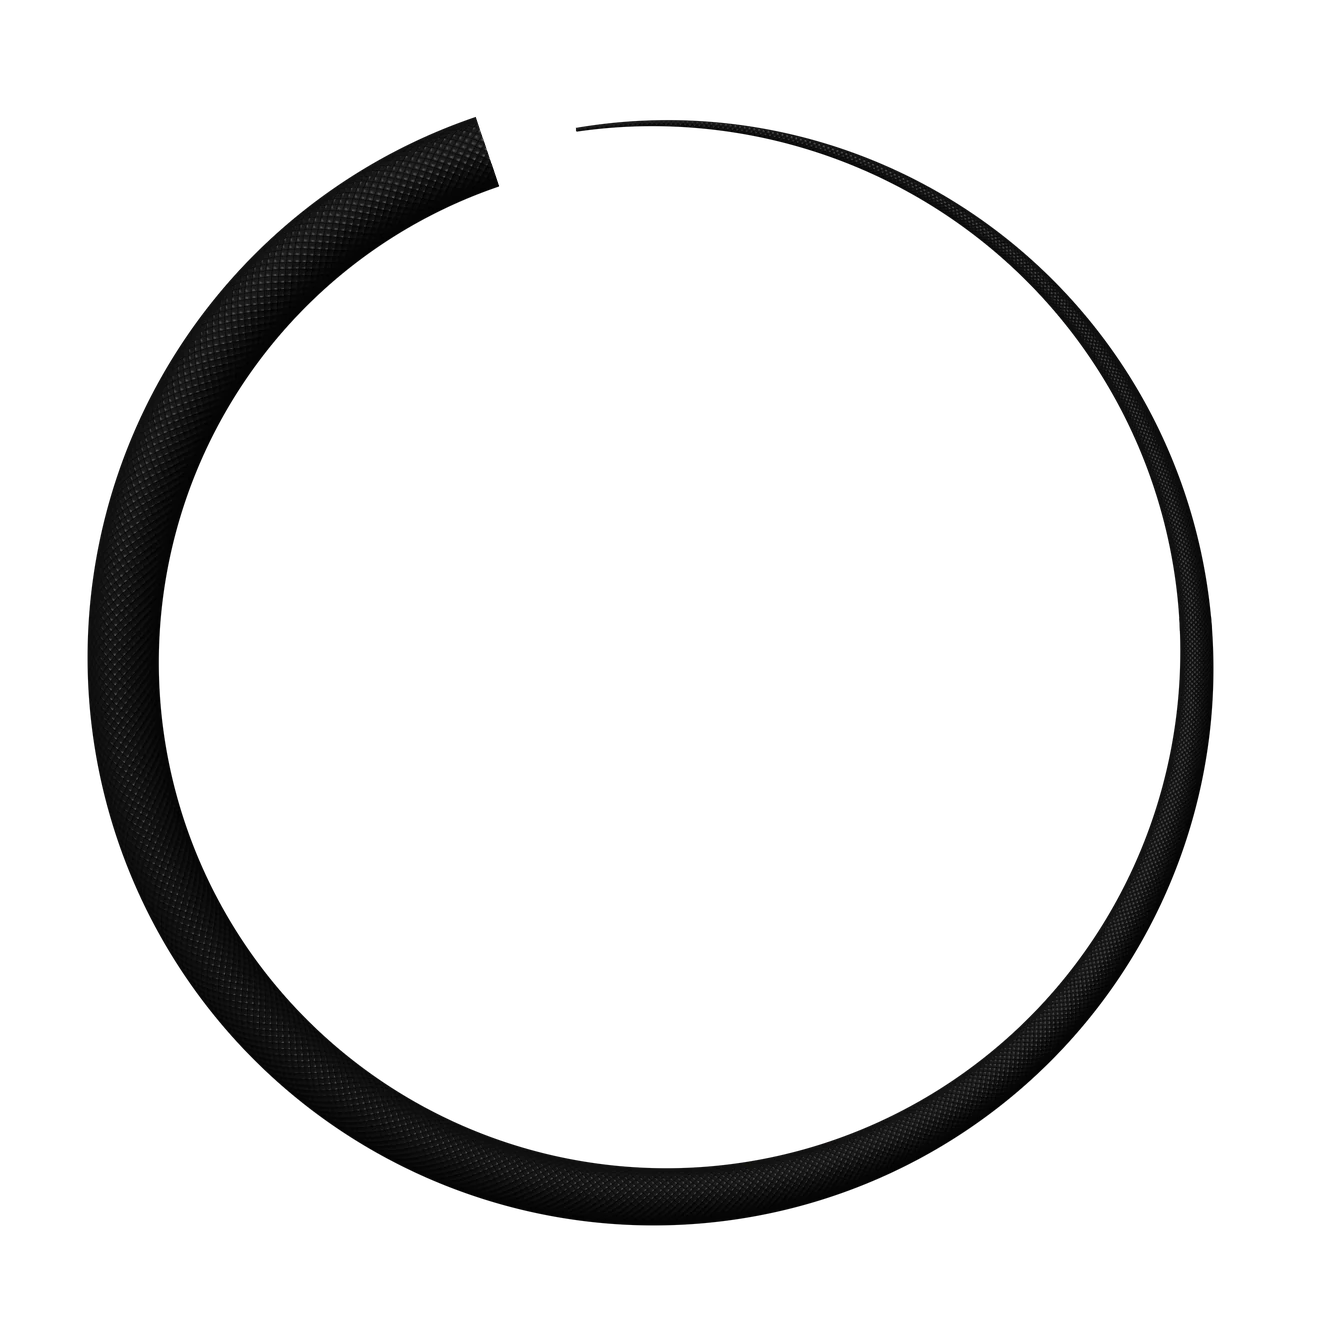
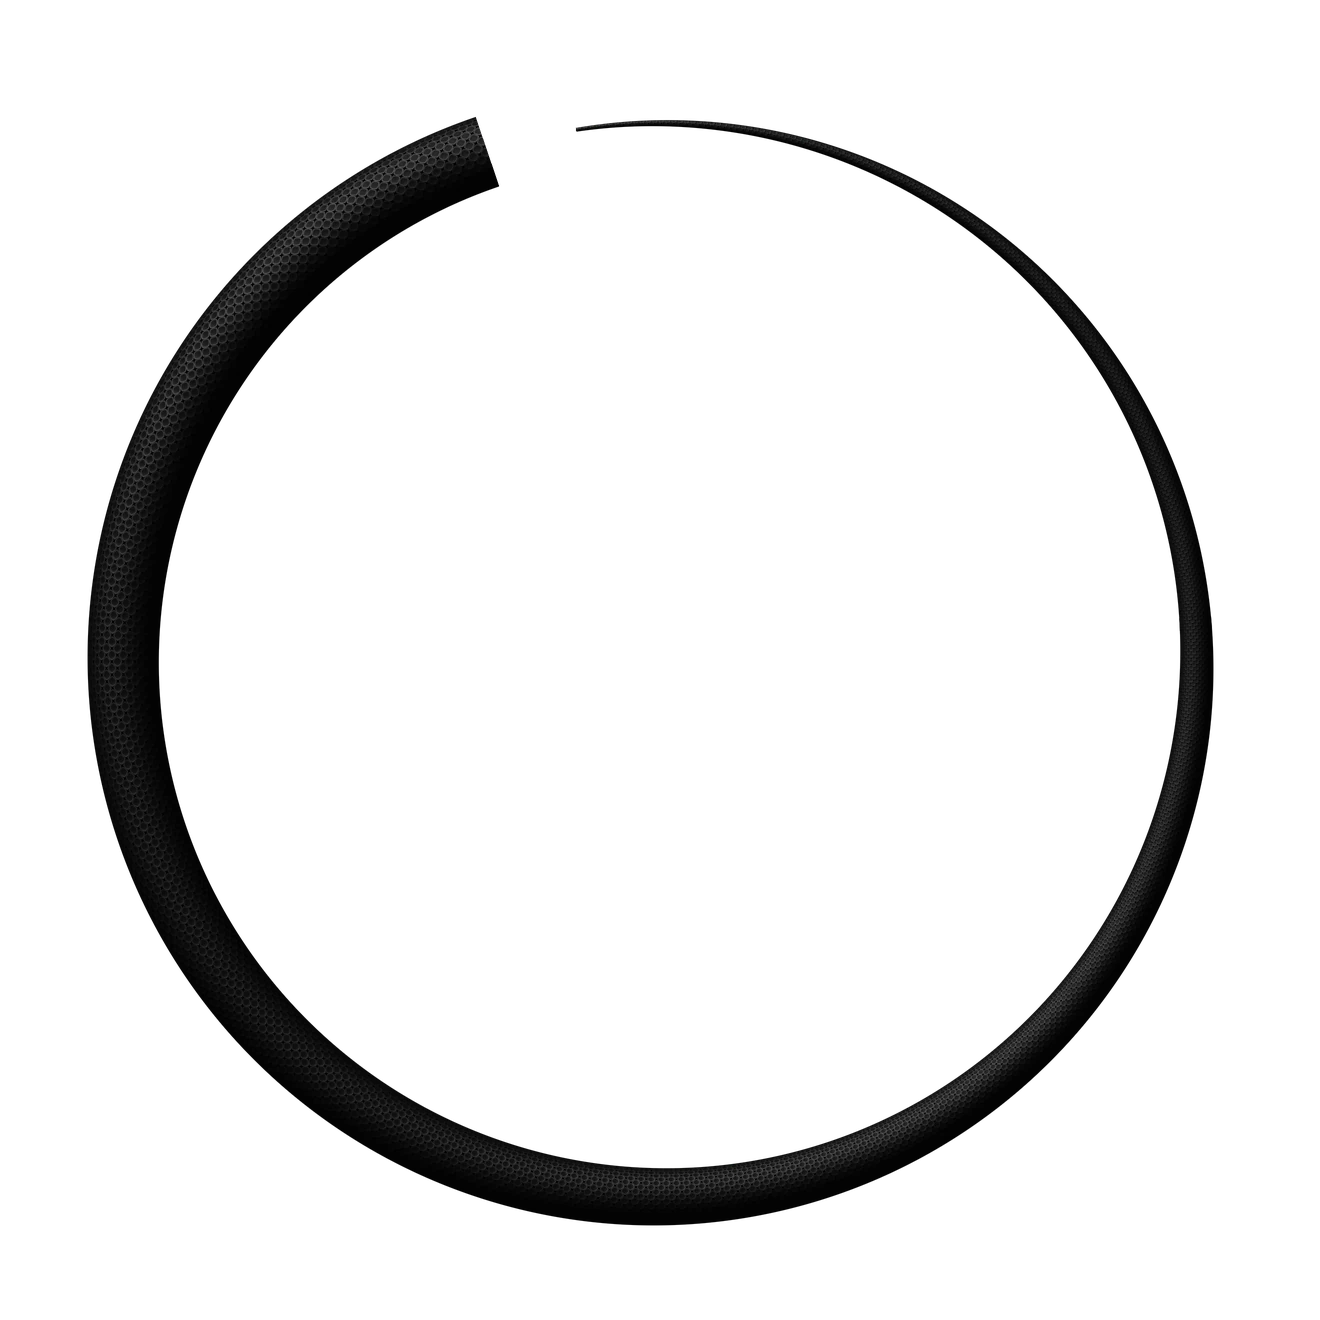
Serpent: near-black like the reference, satin sheen on scale edges only
Claude-Session: https://claude.ai/code/session_01ECSoSUfErtExioGc3A9RaZ

diff --git a/home-italian/index.html b/home-italian/index.html
@@ -38,11 +38,11 @@
 <link rel="preconnect" href="https://fonts.gstatic.com" crossorigin>
 <link href="https://fonts.googleapis.com/css2?family=Parkinsans:wght@300;400;500&family=Playfair+Display:ital,wght@1,400;1,500&display=swap" rel="stylesheet">
 <link rel="preload" as="image" href="../images/book-it.webp">
-<link rel="stylesheet" href="../assets/style.css?v=202610100751">
-<link rel="stylesheet" href="../assets/story.css?v=202610100751">
+<link rel="stylesheet" href="../assets/style.css?v=202610100804">
+<link rel="stylesheet" href="../assets/story.css?v=202610100804">
 <script>document.documentElement.classList.add("js")</script>
 <link rel="preload" as="image" href="../images/art/babylon.webp">
-<link rel="stylesheet" href="../assets/fx.css?v=202610100751">
+<link rel="stylesheet" href="../assets/fx.css?v=202610100804">
 <script data-goatcounter="https://nicolep.goatcounter.com/count" async src="https://gc.zgo.at/count.js"></script>
 </head>
 <body class="fx">
@@ -140,7 +140,7 @@
   </section>
 
   <section class="about" id="about">
-    <figure class="portrait"><div class="photo"><img src="../images/author-photo.webp" alt="Nicole Maria Pezza" width="1086" height="1448" loading="lazy" decoding="async"><div class="serpent" aria-hidden="true"><img class="sp-body" src="../images/serpent-body.webp?v=3" alt="" width="1320" height="1320" loading="lazy" decoding="async"><img class="sp-head" src="../images/serpent-head.webp?v=3" alt="" width="1320" height="1320" loading="lazy" decoding="async"></div></div></figure>
+    <figure class="portrait"><div class="photo"><img src="../images/author-photo.webp" alt="Nicole Maria Pezza" width="1086" height="1448" loading="lazy" decoding="async"><div class="serpent" aria-hidden="true"><img class="sp-body" src="../images/serpent-body.webp?v=4" alt="" width="1320" height="1320" loading="lazy" decoding="async"><img class="sp-head" src="../images/serpent-head.webp?v=4" alt="" width="1320" height="1320" loading="lazy" decoding="async"></div></div></figure>
     <div class="about-text">
       <h2>Sull’autrice</h2>
       <div class="bio">
@@ -177,8 +177,8 @@
   </div>
 </div>
 
-<script src="../assets/site.js?v=202610100751"></script>
-<script src="../assets/story.js?v=202610100751"></script>
-<script src="../assets/fx.js?v=202610100751"></script>
+<script src="../assets/site.js?v=202610100804"></script>
+<script src="../assets/story.js?v=202610100804"></script>
+<script src="../assets/fx.js?v=202610100804"></script>
 </body>
 </html>

diff --git a/index.html b/index.html
@@ -38,11 +38,11 @@
 <link rel="preconnect" href="https://fonts.gstatic.com" crossorigin>
 <link href="https://fonts.googleapis.com/css2?family=Parkinsans:wght@300;400;500&family=Playfair+Display:ital,wght@1,400;1,500&display=swap" rel="stylesheet">
 <link rel="preload" as="image" href="images/book-en.webp">
-<link rel="stylesheet" href="assets/style.css?v=202610100751">
-<link rel="stylesheet" href="assets/story.css?v=202610100751">
+<link rel="stylesheet" href="assets/style.css?v=202610100804">
+<link rel="stylesheet" href="assets/story.css?v=202610100804">
 <script>document.documentElement.classList.add("js")</script>
 <link rel="preload" as="image" href="images/art/babylon.webp">
-<link rel="stylesheet" href="assets/fx.css?v=202610100751">
+<link rel="stylesheet" href="assets/fx.css?v=202610100804">
 <script data-goatcounter="https://nicolep.goatcounter.com/count" async src="https://gc.zgo.at/count.js"></script>
 </head>
 <body class="fx">
@@ -140,7 +140,7 @@
   </section>
 
   <section class="about" id="about">
-    <figure class="portrait"><div class="photo"><img src="images/author-photo.webp" alt="Nicole Maria Pezza" width="1086" height="1448" loading="lazy" decoding="async"><div class="serpent" aria-hidden="true"><img class="sp-body" src="images/serpent-body.webp?v=3" alt="" width="1320" height="1320" loading="lazy" decoding="async"><img class="sp-head" src="images/serpent-head.webp?v=3" alt="" width="1320" height="1320" loading="lazy" decoding="async"></div></div></figure>
+    <figure class="portrait"><div class="photo"><img src="images/author-photo.webp" alt="Nicole Maria Pezza" width="1086" height="1448" loading="lazy" decoding="async"><div class="serpent" aria-hidden="true"><img class="sp-body" src="images/serpent-body.webp?v=4" alt="" width="1320" height="1320" loading="lazy" decoding="async"><img class="sp-head" src="images/serpent-head.webp?v=4" alt="" width="1320" height="1320" loading="lazy" decoding="async"></div></div></figure>
     <div class="about-text">
       <h2>About the Author</h2>
       <div class="bio">
@@ -177,8 +177,8 @@
   </div>
 </div>
 
-<script src="assets/site.js?v=202610100751"></script>
-<script src="assets/story.js?v=202610100751"></script>
-<script src="assets/fx.js?v=202610100751"></script>
+<script src="assets/site.js?v=202610100804"></script>
+<script src="assets/story.js?v=202610100804"></script>
+<script src="assets/fx.js?v=202610100804"></script>
 </body>
 </html>
